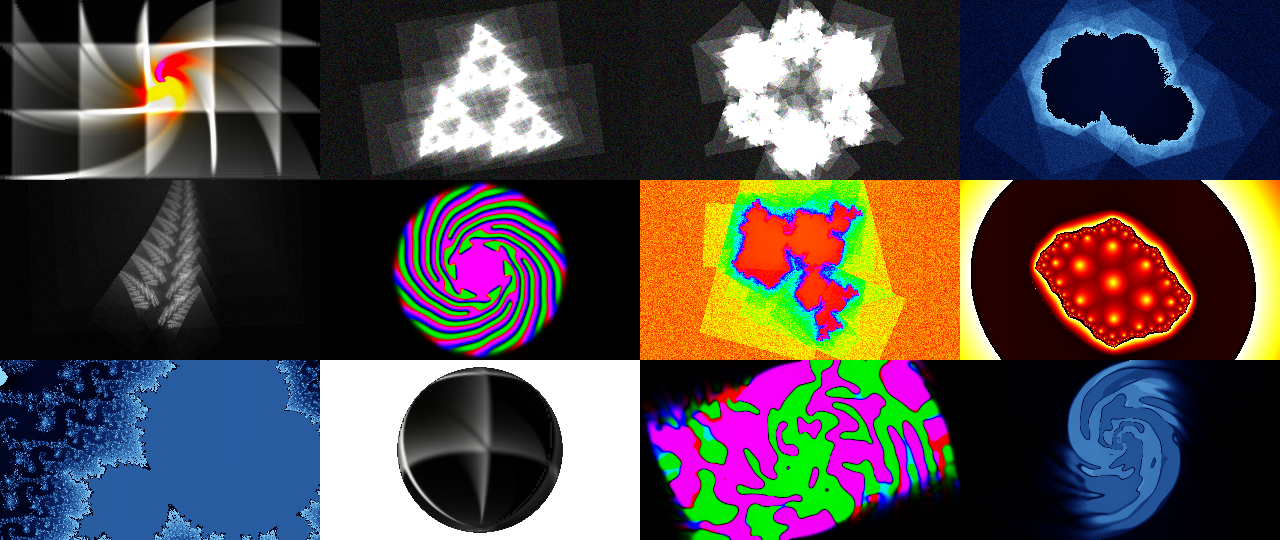
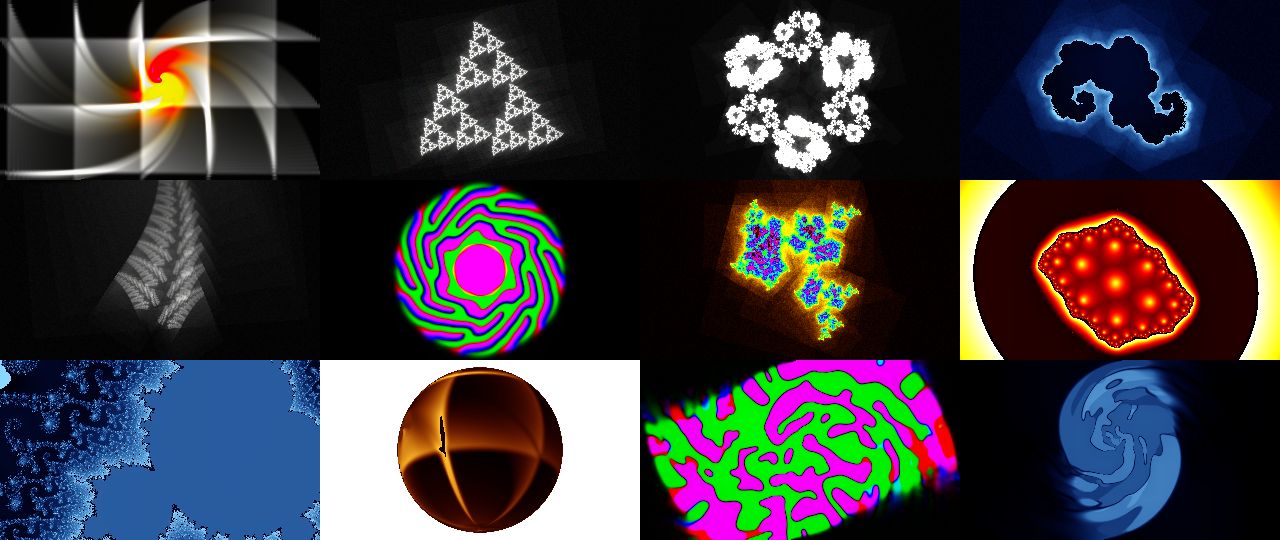
presets: the grain is the seed, not the fuel
Reported as 'squares of noise around the shapes'. They are the iterates of the
frame rectangle under the tap set -- the transient copies the loop is still
working on -- and they were visible because Sierpinski, Koch and Dragon were
all injecting noise at host 0.500, a physical 0.14. That lit the transients
brightly enough to read as boxes AND drove the attractor into the clip, so the
gasket was a saturated white mass. Dropping the food fixes both: all three now
resolve several more levels of self-similarity than they did.

Less food costs liveness, so Drift buys it back -- Dragon and Seeded failed
--liveness at 0.0030 and 0.0036 before their drift went up. Injection lights
the picture, drift moves the hands; keeping those levers separate is the point.

Not the tap loop's hard edge test, which was the first hypothesis: feathering
the screen edge moved the steepest box edge 144 -> 137 levels/px. A loop with
gain above unity and a saturating clip re-sharpens any edge it copies, so that
feather cannot survive one trip round. Written, measured, reverted.

--presets now checks every preset carries non-zero drift. Writing a trailing
comment onto a row that still had values after it commented them out, every
later value shifted up, and three presets silently became spheres -- a short
initialiser list is legal C++ and zero-fills without a word.

diff --git a/source/Presets.h b/source/Presets.h
@@ -152,9 +152,9 @@ inline constexpr Preset kPresets[] = {
 	    0.10f,  // a little grain, so there is always something to converge from
 	    0.0f,   // no persistence: the attractor is not a trail
 	    4.0f,   // inject: noise
-	    0.500f, // level 0.14
+	    0.260f, // level 0.040
 	    1.0f,
-	    0.0f, 0.0f, 0.5f, 0.5f, -1.0f, -1.0f, -1.0f , 0.35f, 0.435f } },
+	    0.0f, 0.0f, 0.5f, 0.5f, -1.0f, -1.0f, -1.0f , 0.50f, 0.435f } },
 
 	//-------------------------------------------------------------------
 	// Four third-scale taps and a three-fold fold. The taps make the Koch
@@ -175,8 +175,9 @@ inline constexpr Preset kPresets[] = {
 	    0.5f, 0.857f,
 	    0.10f, 0.153f, // a little persistence, so the thin line accumulates
 	    4.0f,   // inject: noise
-	    0.500f, 1.0f,
-	    0.0f, 0.0f, 0.5f, 0.5f, -1.0f, -1.0f, -1.0f , 0.35f, 0.435f } },
+	    0.140f, // level 0.021
+	    1.0f,
+	    0.0f, 0.0f, 0.5f, 0.5f, -1.0f, -1.0f, -1.0f , 0.50f, 0.435f } },
 
 	{ "Dragon",
 	  { 3.0f,
@@ -188,9 +189,11 @@ inline constexpr Preset kPresets[] = {
 	    0.680f, // gain 1.09
 	    0.5f, 0.5f, 0.640f, 0.5f, 0.857f,
 	    0.10f, 0.0f,
-	    4.0f, 0.500f, 1.0f,
+	    4.0f,   // inject: noise
+	    0.260f, // level 0.021
+	    1.0f,
 	    2.0f,   // Ice
-	    0.0f, 0.5f, 0.5f, -1.0f, -1.0f, -1.0f , 0.55f, 0.435f } },
+	    0.0f, 0.5f, 0.5f, -1.0f, -1.0f, -1.0f , 0.95f, 0.435f } },
 
 	//-------------------------------------------------------------------
 	// Barnsley's fern. One of its four maps is singular -- the stem is a
@@ -251,9 +254,11 @@ inline constexpr Preset kPresets[] = {
 	    0.091f, 0.5f, 0.200f,
 	    0.594f, 0.5f, 0.5f, 0.620f, 0.5f, 0.857f,
 	    0.10f, 0.0f,
-	    4.0f, 0.300f, 1.0f,
+	    4.0f,   // inject: noise
+	    0.140f, // level 0.021
+	    1.0f,
 	    4.0f,   // Spectrum
-	    0.0f, 0.5f, 0.5f, -1.0f, -1.0f, -1.0f , 0.40f, 0.435f } },
+	    0.0f, 0.5f, 0.5f, -1.0f, -1.0f, -1.0f , 0.55f, 0.435f } },
 
 	//-------------------------------------------------------------------
 	// The iterator bank, with c fixed. The loop is still running -- the

diff --git a/tools/esctest/main.cpp b/tools/esctest/main.cpp
@@ -660,6 +660,22 @@ void testPresets( const Target& target )
 {
 	printf( "\n== presets\n" );
 
+	// Every preset carries drift, and none of them carries zero -- the table in
+	// Presets.h says so, and the plugin depends on it. Checking it here costs
+	// nothing and catches a failure that is otherwise silent and very hard to
+	// see: `float values[ kParamCount ]` with too FEW initialisers is legal
+	// C++, and the compiler zero-fills the tail without a word. A trailing `//`
+	// comment written onto a line that still had values on it did exactly that
+	// -- it commented out the rest of the row, every later value shifted up,
+	// and three presets quietly became something else. They still rendered, so
+	// the "draws" check below passed them; drift landing on zero is the tell.
+	for( int i = 0; i < presets::kCount; ++i )
+	{
+		char label[ 200 ];
+		snprintf( label, sizeof( label ), "%-16s carries drift", presets::kPresets[ i ].name );
+		check( presets::kPresets[ i ].values[ presets::P_DRIFT ] > 0.0f, label );
+	}
+
 	for( int i = 0; i < presets::kCount; ++i )
 	{
 		EscapementPlugin plugin( false );

diff --git a/docs/NOTES.md b/docs/NOTES.md
@@ -294,22 +294,62 @@ drift gate for CI and release, and it has been passing vacuously. Escapement's
 `ES01` source, `ES02` effect. Checked against every other ID in `~/Projects/
 resolume` before choosing.
 
-## Published (2026-08-27)
+## The boxes, and what they actually were (2026-08-27)
 
-- **v0.1.1**, signed and notarised: universal macOS bundle, Windows x64 DLL,
-  disk image and installer.
-- Video: `https://www.youtube.com/watch?v=fyqUDXdTyqs` (68s).
-- Reel: `https://www.instagram.com/reel/Dch_ROTip9x/`.
-- Demo live at `https://escapement-demo.stoatworks-labs.com`.
-- The video is a **render, not a screen recording** — Escapement has no window
-  of its own, so its footage comes from `esctest --sequence` driven by
-  `tools/video.cues`, which is in this repo next to the code. One plugin
-  instance for the whole piece, so the frame store carries its history across
-  every change on screen and each section dissolves into the next.
-- The Instagram cover is `docs/instagram-cover.jpg`, and Upload-Post takes a
-  cover only as a public URL at upload time — so it has to be committed and
-  SHA-pinned *before* the post. The Julia beat, because it is the only frame
-  that still reads as a fractal at tile size.
+Reported as "squares of noise around the shapes on some of the presets". They
+were neither squares of noise nor a rendering artefact: they are the **iterates
+of the frame rectangle under the tap set** -- the transient copies the loop is
+still working on before it reaches the attractor -- and they were visible
+because the presets were **over-fed**.
+
+The grain is the SEED, not the fuel. Once the loop gain is above unity the
+attractor sustains itself, and injection only has to give it something to
+converge from as Drift moves it. Sierpinski, Koch and Dragon were all injecting
+at host 0.500, which is a physical 0.14 -- a snowstorm. That did two things at
+once: it lit the transient copies brightly enough to read as boxes, and it
+drove the attractor itself into the clip, so the gasket was a saturated white
+mass with its structure gone.
+
+Dropping the food fixed both. The gasket, the snowflake and the dragon all
+resolve several more levels of self-similarity than they did, because they are
+no longer saturating.
+
+| rig | inject was | now | physical |
+|---|---|---|---|
+| Sierpinski | 0.500 | 0.260 | 0.040 |
+| Koch | 0.500 | 0.140 | 0.021 |
+| Dragon | 0.500 | 0.260 | 0.040 |
+| Seeded | 0.300 | 0.140 | 0.021 |
+
+**Less food costs liveness, and Drift is what buys it back.** Dragon and Seeded
+failed `--liveness` on the first attempt (0.0030 and 0.0036 against a threshold
+of 0.004): with less to re-converge from, a rig settles sooner. Raising Drift
+fixes that *without* re-lighting the boxes, because Drift moves the operator's
+hands and injection lights the picture -- they are separate levers and it is
+worth keeping them separate. Drift went 0.35 -> 0.50 on Sierpinski and Koch,
+0.55 -> 0.95 on Dragon, 0.40 -> 0.55 on Seeded, which also bought margin on the
+two that were already passing by a hair.
+
+**What it was NOT.** The first hypothesis was that the hard `if( uv != clamp(
+uv, 0, 1 ) ) continue;` in the tap loop stamps a knife-edged parallelogram, so
+the fix would be to feather the screen's edge. That is a real physical point --
+a lens does not resolve a screen edge over one texel -- but it is not this bug,
+and the measurement says so: feathering moved the steepest box edge from 144 to
+137 levels/px, which is nothing. **A loop with gain above unity and a
+saturating clip re-sharpens any edge it copies**, so softening the input edge
+cannot survive one trip round. The feather was written, measured, and reverted.
+
+## The trap that broke three presets while fixing them
+
+`float values[ kParamCount ]` with too FEW initialisers is legal C++ and the
+compiler zero-fills the tail in silence. Writing a trailing `// level 0.021`
+onto a row that still had `1.0f,` after it commented out the rest of that row:
+every later value shifted up, and Koch, Dragon and Seeded silently became
+spheres -- they still rendered, so `--presets` passed them.
+
+`--presets` now checks first that **every preset carries non-zero drift**, which
+the table in Presets.h already states as an invariant and which a zero-filled
+tail always violates. Verified by zeroing one and watching it fail.
 
 ## Still open
 

diff --git a/README.md b/README.md
@@ -14,8 +14,6 @@ iterating amplifiers. There is no code anywhere that draws a Sierpinski gasket.
 There are three half-scale taps on the vertices of a triangle, and the gasket is
 where the loop goes.
 
-**Video:** [What it does, in 68 seconds](https://www.youtube.com/watch?v=fyqUDXdTyqs)
-
 Two plugins:
 
 | | |
